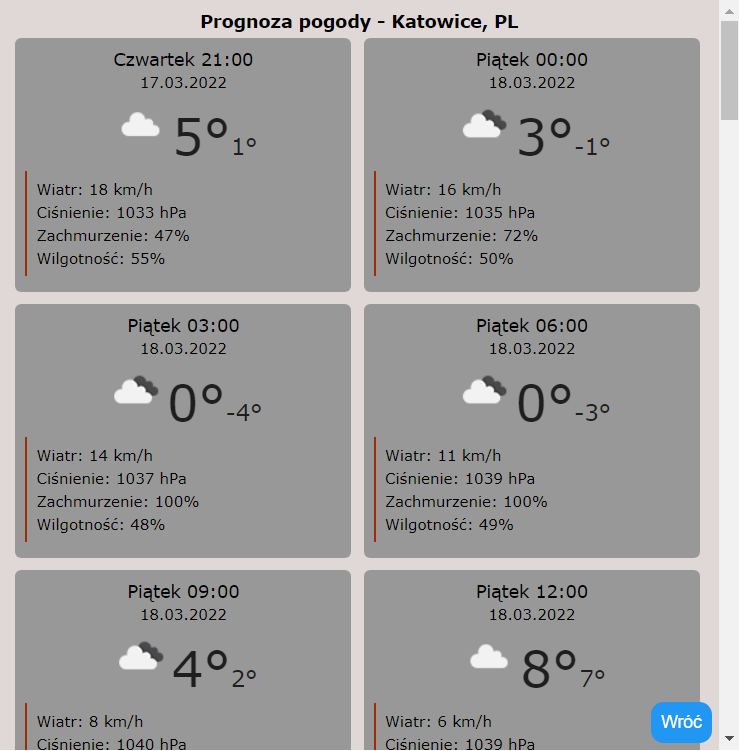
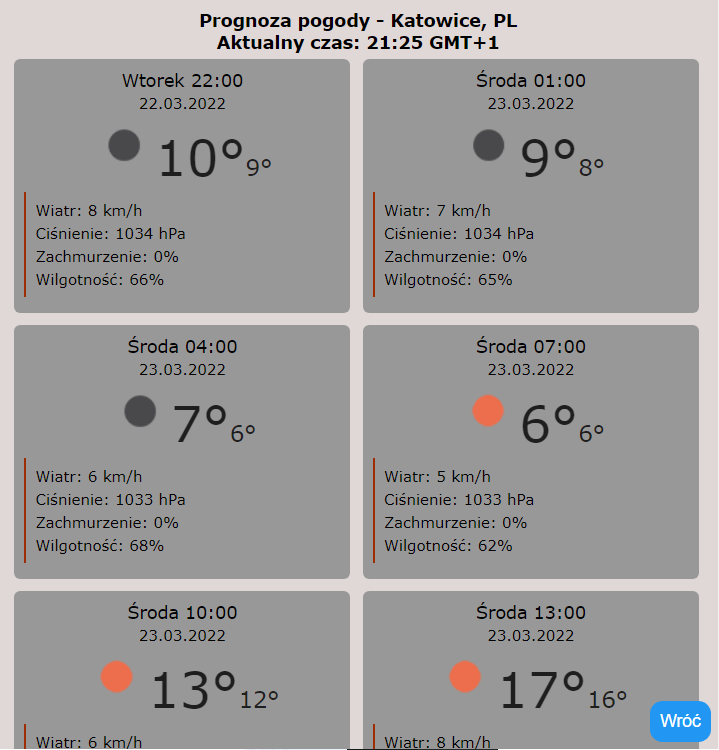
Add/fix current time and date

Changed region(s): [[0.0, 0.0, 1.0, 1.0], [0.0306, 0.9507, 0.2448, 1.0], [0.3366, 0.92, 0.3978, 0.9507]]

diff --git a/script.js b/script.js
@@ -12,6 +12,35 @@ const getFullDateFromTimestamp = (timestamp) => {
   day = date.getDate();
   return pad(day)+"."+pad(month)+"."+year;
 }
+const getFullDateFromTimestampFormat =(timestamp) =>{
+  const date = new Date(timestamp * 1000);
+  let year = date.getFullYear(),
+  month = date.getMonth()+1,
+  day = date.getDate();
+  return year+"-"+pad(month)+"-"+pad(day);
+}
+const returnTime = (timezone) => {
+  const date = new Date();
+  let hours = date.getHours()+timezone,
+  minutes = date.getMinutes();
+  let infoGMT = "";
+  if(timezone+1>0){
+    infoGMT = "GMT+"+(timezone+1);
+  }else if(timezone+1<0){
+    infoGMT = "GMT"+(timezone+1);
+  }else{
+    infoGMT = "GMT0";
+  }
+  let newHours = hours - 24;
+  if(hours>23){
+    document.getElementById("current-time").innerHTML = "Aktualny czas: "+pad(newHours) + ":" + pad(minutes)+ " " +infoGMT;
+    document.getElementById("forecast-current-time").innerHTML = "Aktualny czas: "+pad(newHours) + ":" + pad(minutes)+ " " +infoGMT;
+  }else{
+    document.getElementById("current-time").innerHTML = "Aktualny czas: "+pad(hours) + ":" + pad(minutes)+ " " +infoGMT;
+    document.getElementById("forecast-current-time").innerHTML = "Aktualny czas: "+pad(hours) + ":" + pad(minutes)+ " " +infoGMT;
+  }
+}
+
 const removeChild = (parent) => {
   while(parent.firstChild){
     parent.removeChild(parent.firstChild);
@@ -32,21 +61,22 @@ const showWeather = () => {
       .then((resp) => resp.json())
       .then(data => {
         document.getElementById("city").innerHTML = data.name+", "+data.sys.country;
-        document.getElementById("temp").innerHTML = "<img src='http://openweathermap.org/img/wn/"+data.weather[0].icon+
-        "@2x.png' id='icon'/>"+Math.round(parseFloat(data.main.temp)-273.15)+"&deg;C<span id='temp-feels'>"+Math.round(parseFloat(data.main.feels_like)-273.15)+"&deg;C</span>";
+        document.getElementById("temp").innerHTML = "<img src='http://openweathermap.org/img/wn/"+data.weather[0].icon+"@2x.png' id='icon'/>"+
+        Math.round(parseFloat(data.main.temp)-273.15)+"&deg;C<span id='temp-feels'>"+Math.round(parseFloat(data.main.feels_like)-273.15)+"&deg;C</span>";
         document.getElementById("desc").innerHTML = data.weather[0].main+" - "+data.weather[0].description;
         document.getElementById("wind-speed").innerHTML = "Wiatr: "+Math.round(parseFloat(data.wind.speed)*(60*60)/1000)+" km/h";
         document.getElementById("clouds").innerHTML = "Zachmurzenie: "+data.clouds.all+"%";
         document.getElementById("pressure").innerHTML = "Ciśnienie: "+data.main.pressure+" hPa";
         document.getElementById("humidity").innerHTML = "Wilgotność: "+data.main.humidity+"%";
-        document.getElementById("sunrise").innerHTML = "Wschód słońca: "+getTimeFromTimestamp(data.sys.sunrise);
-        document.getElementById("sunset").innerHTML = "Zachód słońca: "+getTimeFromTimestamp(data.sys.sunset);
+        document.getElementById("sunrise").innerHTML = "Wschód słońca: "+getTimeFromTimestamp((data.sys.sunrise+data.timezone)-3600);
+        document.getElementById("sunset").innerHTML = "Zachód słońca: "+getTimeFromTimestamp((data.sys.sunset+data.timezone)-3600);
         document.getElementById("content").style.display = "block";
         document.getElementById("footer").style.display = "block";
 
         const parent = document.getElementById("forecast");
         removeChild(parent);
         showForecast();
+        returnTime((data.timezone/3600)-1);
       })
       .catch(error => {
         console.log(error);
@@ -61,6 +91,7 @@ const showForecast = () => {
   fetch(url)
   .then((resp) => resp.json())
   .then(forecast => {
+    const timezone = forecast.city.timezone;
     document.getElementById("forecast-city").innerHTML = forecast.city.name+", "+forecast.city.country;
       forecast.list.forEach(data => {
         const container = document.createElement('div');
@@ -69,10 +100,8 @@ const showForecast = () => {
         const time = document.createElement('div');
         time.className = "forecast-time";
         let dateFormat = data.dt
-        let date = data.dt_txt;
-        let dateOutput = date.slice(0,10);
-        time.innerHTML = getWeekday(dateOutput) + " " + date.slice(11,16)+"<br />"+
-        "<span style='font-size: 12px'>"+ getFullDateFromTimestamp(dateFormat) +"</span>";
+        time.innerHTML = getWeekday(getFullDateFromTimestampFormat((dateFormat+timezone)-3600)) + " "+ getTimeFromTimestamp((dateFormat+timezone)-3600) + "<br />"+
+        "<span style='font-size: 12px'>"+ getFullDateFromTimestamp((dateFormat+timezone)-3600) +"</span>";
         container.appendChild(time);
 
         const icon = document.createElement('img');

diff --git a/popup.html b/popup.html
@@ -24,6 +24,7 @@
           <div id="clouds"></div>
           <div id="humidity"></div>
         </div>
+        <div id="current-time"></div>
         <div id="sunrise"></div>
         <div id="sunset"></div>
       </div>
@@ -31,7 +32,7 @@
     <div id="forecast-weather">
       <div>
         <button id="back-weather"><span>Wróć </span></button>
-        <h3>Prognoza pogody - <span id="forecast-city"></span></h3>
+        <h3>Prognoza pogody - <span id="forecast-city"></span><br /><span id="forecast-current-time"></span></h3>
       </div>
       <div id="forecast"></div>
     </div>
